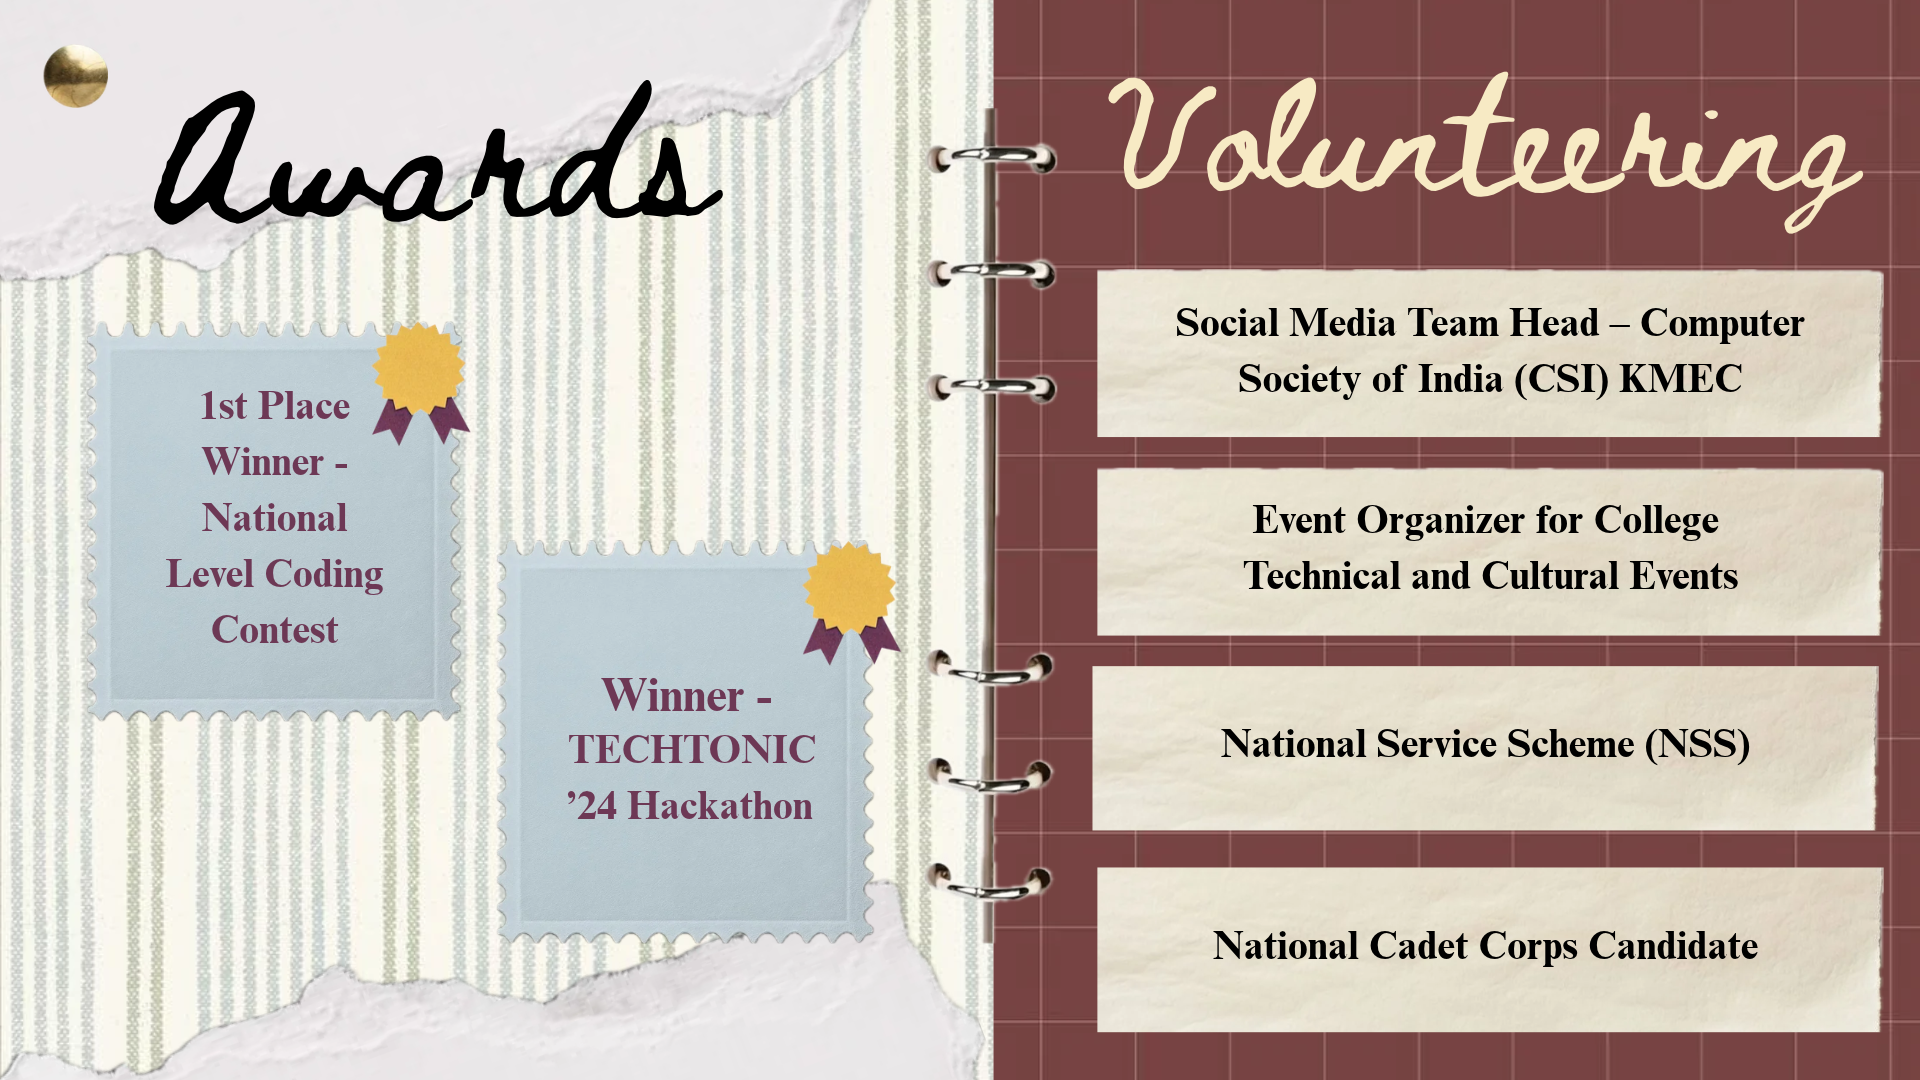
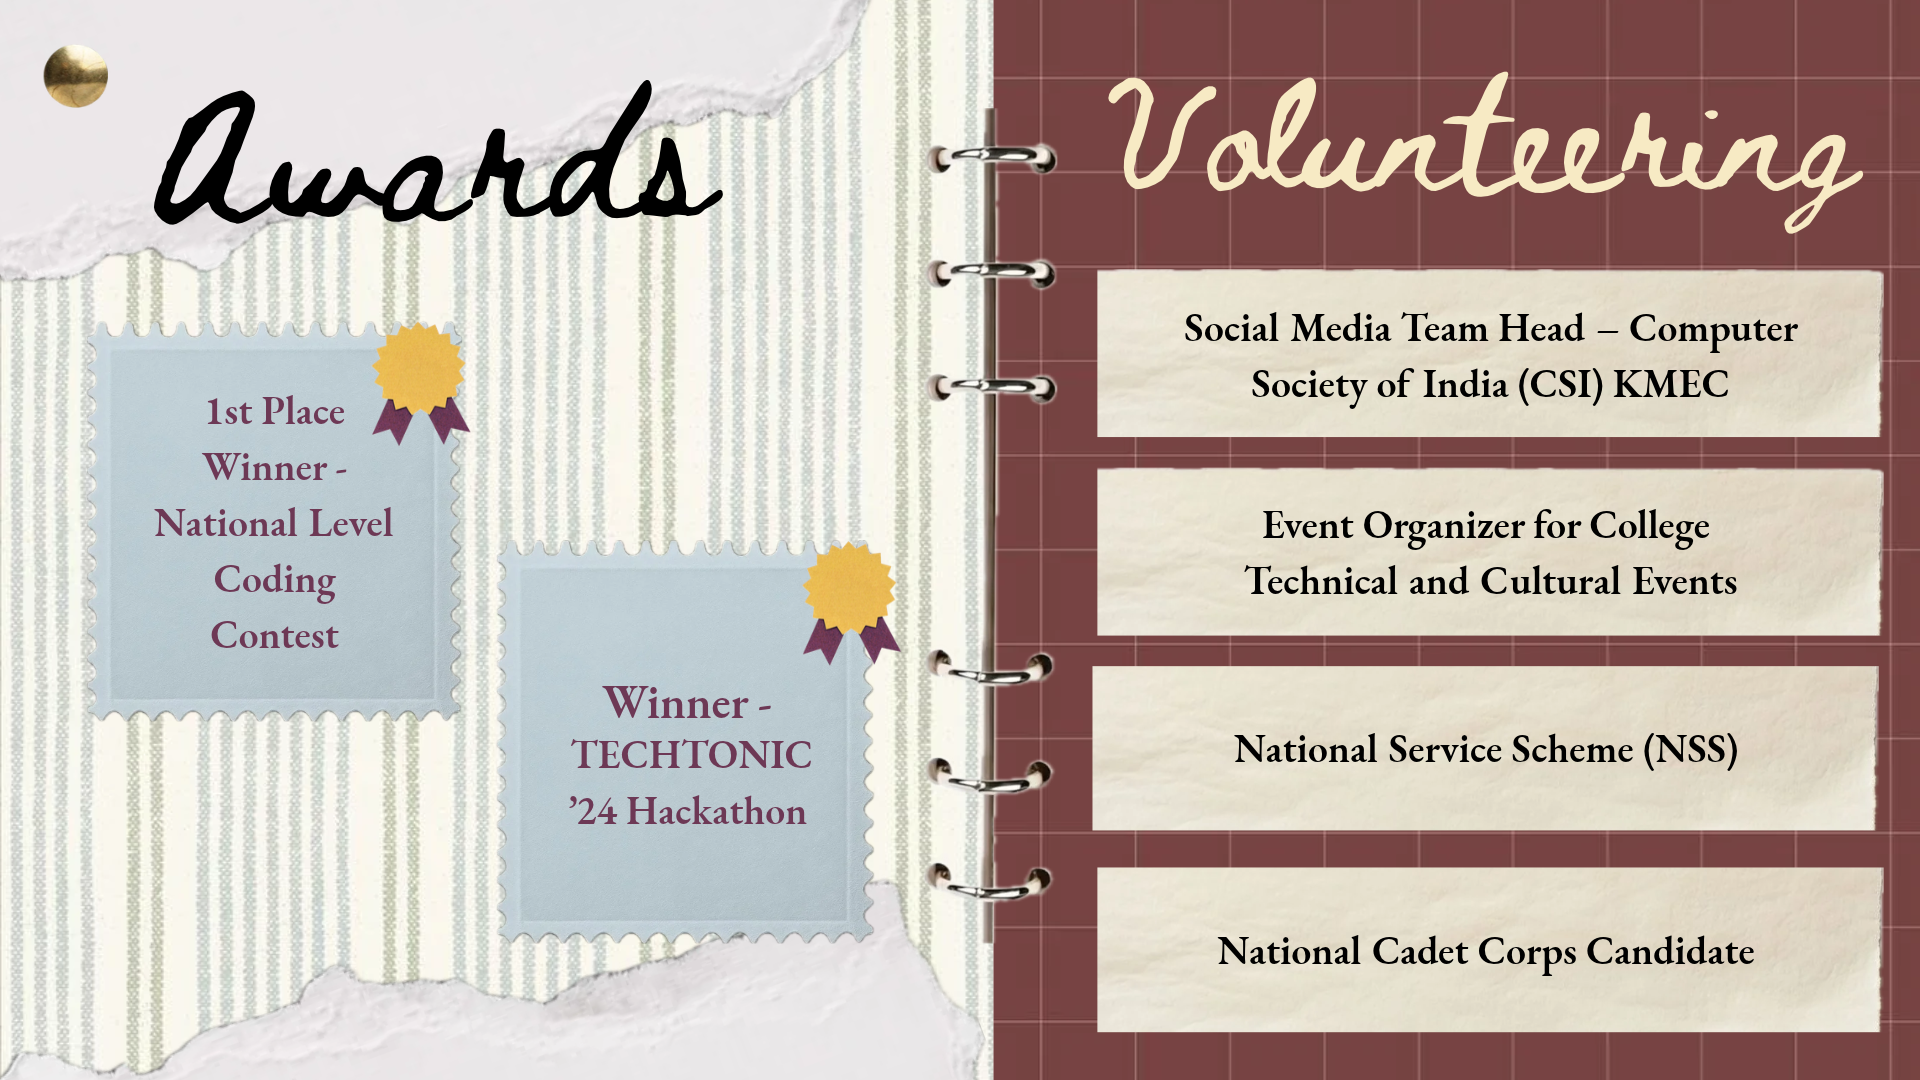
feat(portfolio): integrate new high-quality designs Page1-Page8 as-is with zero reduction in quality

diff --git a/src/components/portfolio/SpreadContact.tsx b/src/components/portfolio/SpreadContact.tsx
@@ -12,7 +12,7 @@ export const SpreadContact: React.FC<SpreadProps> = ({ className = '' }) => {
     <div className={`relative w-full h-full select-none overflow-hidden bg-white ${className}`}>
       {/* High-Resolution Design from Designs/Page8.png */}
       <img
-        src="/designs/Page8.png?v=original"
+        src="/designs/Page8.png?v=20261105"
         alt="Language Skills & Contact Spread"
         loading="eager"
         decoding="async"

diff --git a/src/components/portfolio/SpreadAwardsVolunteering.tsx b/src/components/portfolio/SpreadAwardsVolunteering.tsx
@@ -9,7 +9,7 @@ export const SpreadAwardsVolunteering: React.FC<SpreadProps> = ({ className = ''
     <div className={`relative w-full h-full select-none overflow-hidden bg-white ${className}`}>
       {/* High-Resolution Design from Designs/Page7.png */}
       <img
-        src="/designs/Page7.png?v=original"
+        src="/designs/Page7.png?v=20261105"
         alt="Awards and Volunteering Spread"
         loading="eager"
         decoding="async"

diff --git a/src/components/portfolio/SpreadExperienceResearch.tsx b/src/components/portfolio/SpreadExperienceResearch.tsx
@@ -9,7 +9,7 @@ export const SpreadExperienceResearch: React.FC<SpreadProps> = ({ className = ''
     <div className={`relative w-full h-full select-none overflow-hidden bg-[#2c1d11] ${className}`}>
       {/* High-Resolution Design from Designs/Page2.png */}
       <img
-        src="/designs/Page2.png?v=original"
+        src="/designs/Page2.png?v=20261105"
         alt="Work Experience Spread"
         loading="eager"
         decoding="async"

diff --git a/src/components/portfolio/SpreadCertifications.tsx b/src/components/portfolio/SpreadCertifications.tsx
@@ -9,7 +9,7 @@ export const SpreadCertifications: React.FC<SpreadProps> = ({ className = '' }) 
     <div className={`relative w-full h-full select-none overflow-hidden bg-white ${className}`}>
       {/* High-Resolution Design from Designs/Page6.png */}
       <img
-        src="/designs/Page6.png?v=original"
+        src="/designs/Page6.png?v=20261105"
         alt="Certifications Spread"
         loading="eager"
         decoding="async"

diff --git a/src/components/portfolio/SpreadPublications.tsx b/src/components/portfolio/SpreadPublications.tsx
@@ -9,7 +9,7 @@ export const SpreadPublications: React.FC<SpreadProps> = ({ className = '' }) =>
     <div className={`relative w-full h-full select-none overflow-hidden bg-white ${className}`}>
       {/* High-Resolution Design from Designs/Page3.png */}
       <img
-        src="/designs/Page3.png?v=original"
+        src="/designs/Page3.png?v=20261105"
         alt="Publications Spread"
         loading="eager"
         decoding="async"

diff --git a/src/components/portfolio/SpreadEducationCanvas.tsx b/src/components/portfolio/SpreadEducationCanvas.tsx
@@ -9,7 +9,7 @@ export const SpreadEducationCanvas: React.FC<SpreadProps> = ({ className = '' })
     <div className={`relative w-full h-full select-none overflow-hidden bg-white ${className}`}>
       {/* High-Resolution Design from Designs/Page1.png */}
       <img
-        src="/designs/Page1.png?v=original"
+        src="/designs/Page1.png?v=20261105"
         alt="Education Spread"
         loading="eager"
         decoding="async"

diff --git a/src/components/portfolio/SpreadProjects.tsx b/src/components/portfolio/SpreadProjects.tsx
@@ -9,7 +9,7 @@ export const SpreadProjects: React.FC<SpreadProps> = ({ className = '' }) => {
     <div className={`relative w-full h-full select-none overflow-hidden bg-white ${className}`}>
       {/* High-Resolution Design from Designs/Page4.png */}
       <img
-        src="/designs/Page4.png?v=original"
+        src="/designs/Page4.png?v=20261105"
         alt="Projects Spread"
         loading="eager"
         decoding="async"

diff --git a/src/components/portfolio/SpreadSkills.tsx b/src/components/portfolio/SpreadSkills.tsx
@@ -9,7 +9,7 @@ export const SpreadSkills: React.FC<SpreadProps> = ({ className = '' }) => {
     <div className={`relative w-full h-full select-none overflow-hidden bg-white ${className}`}>
       {/* High-Resolution Design from Designs/Page5.png */}
       <img
-        src="/designs/Page5.png?v=original"
+        src="/designs/Page5.png?v=20261105"
         alt="Skills Spread"
         loading="eager"
         decoding="async"
